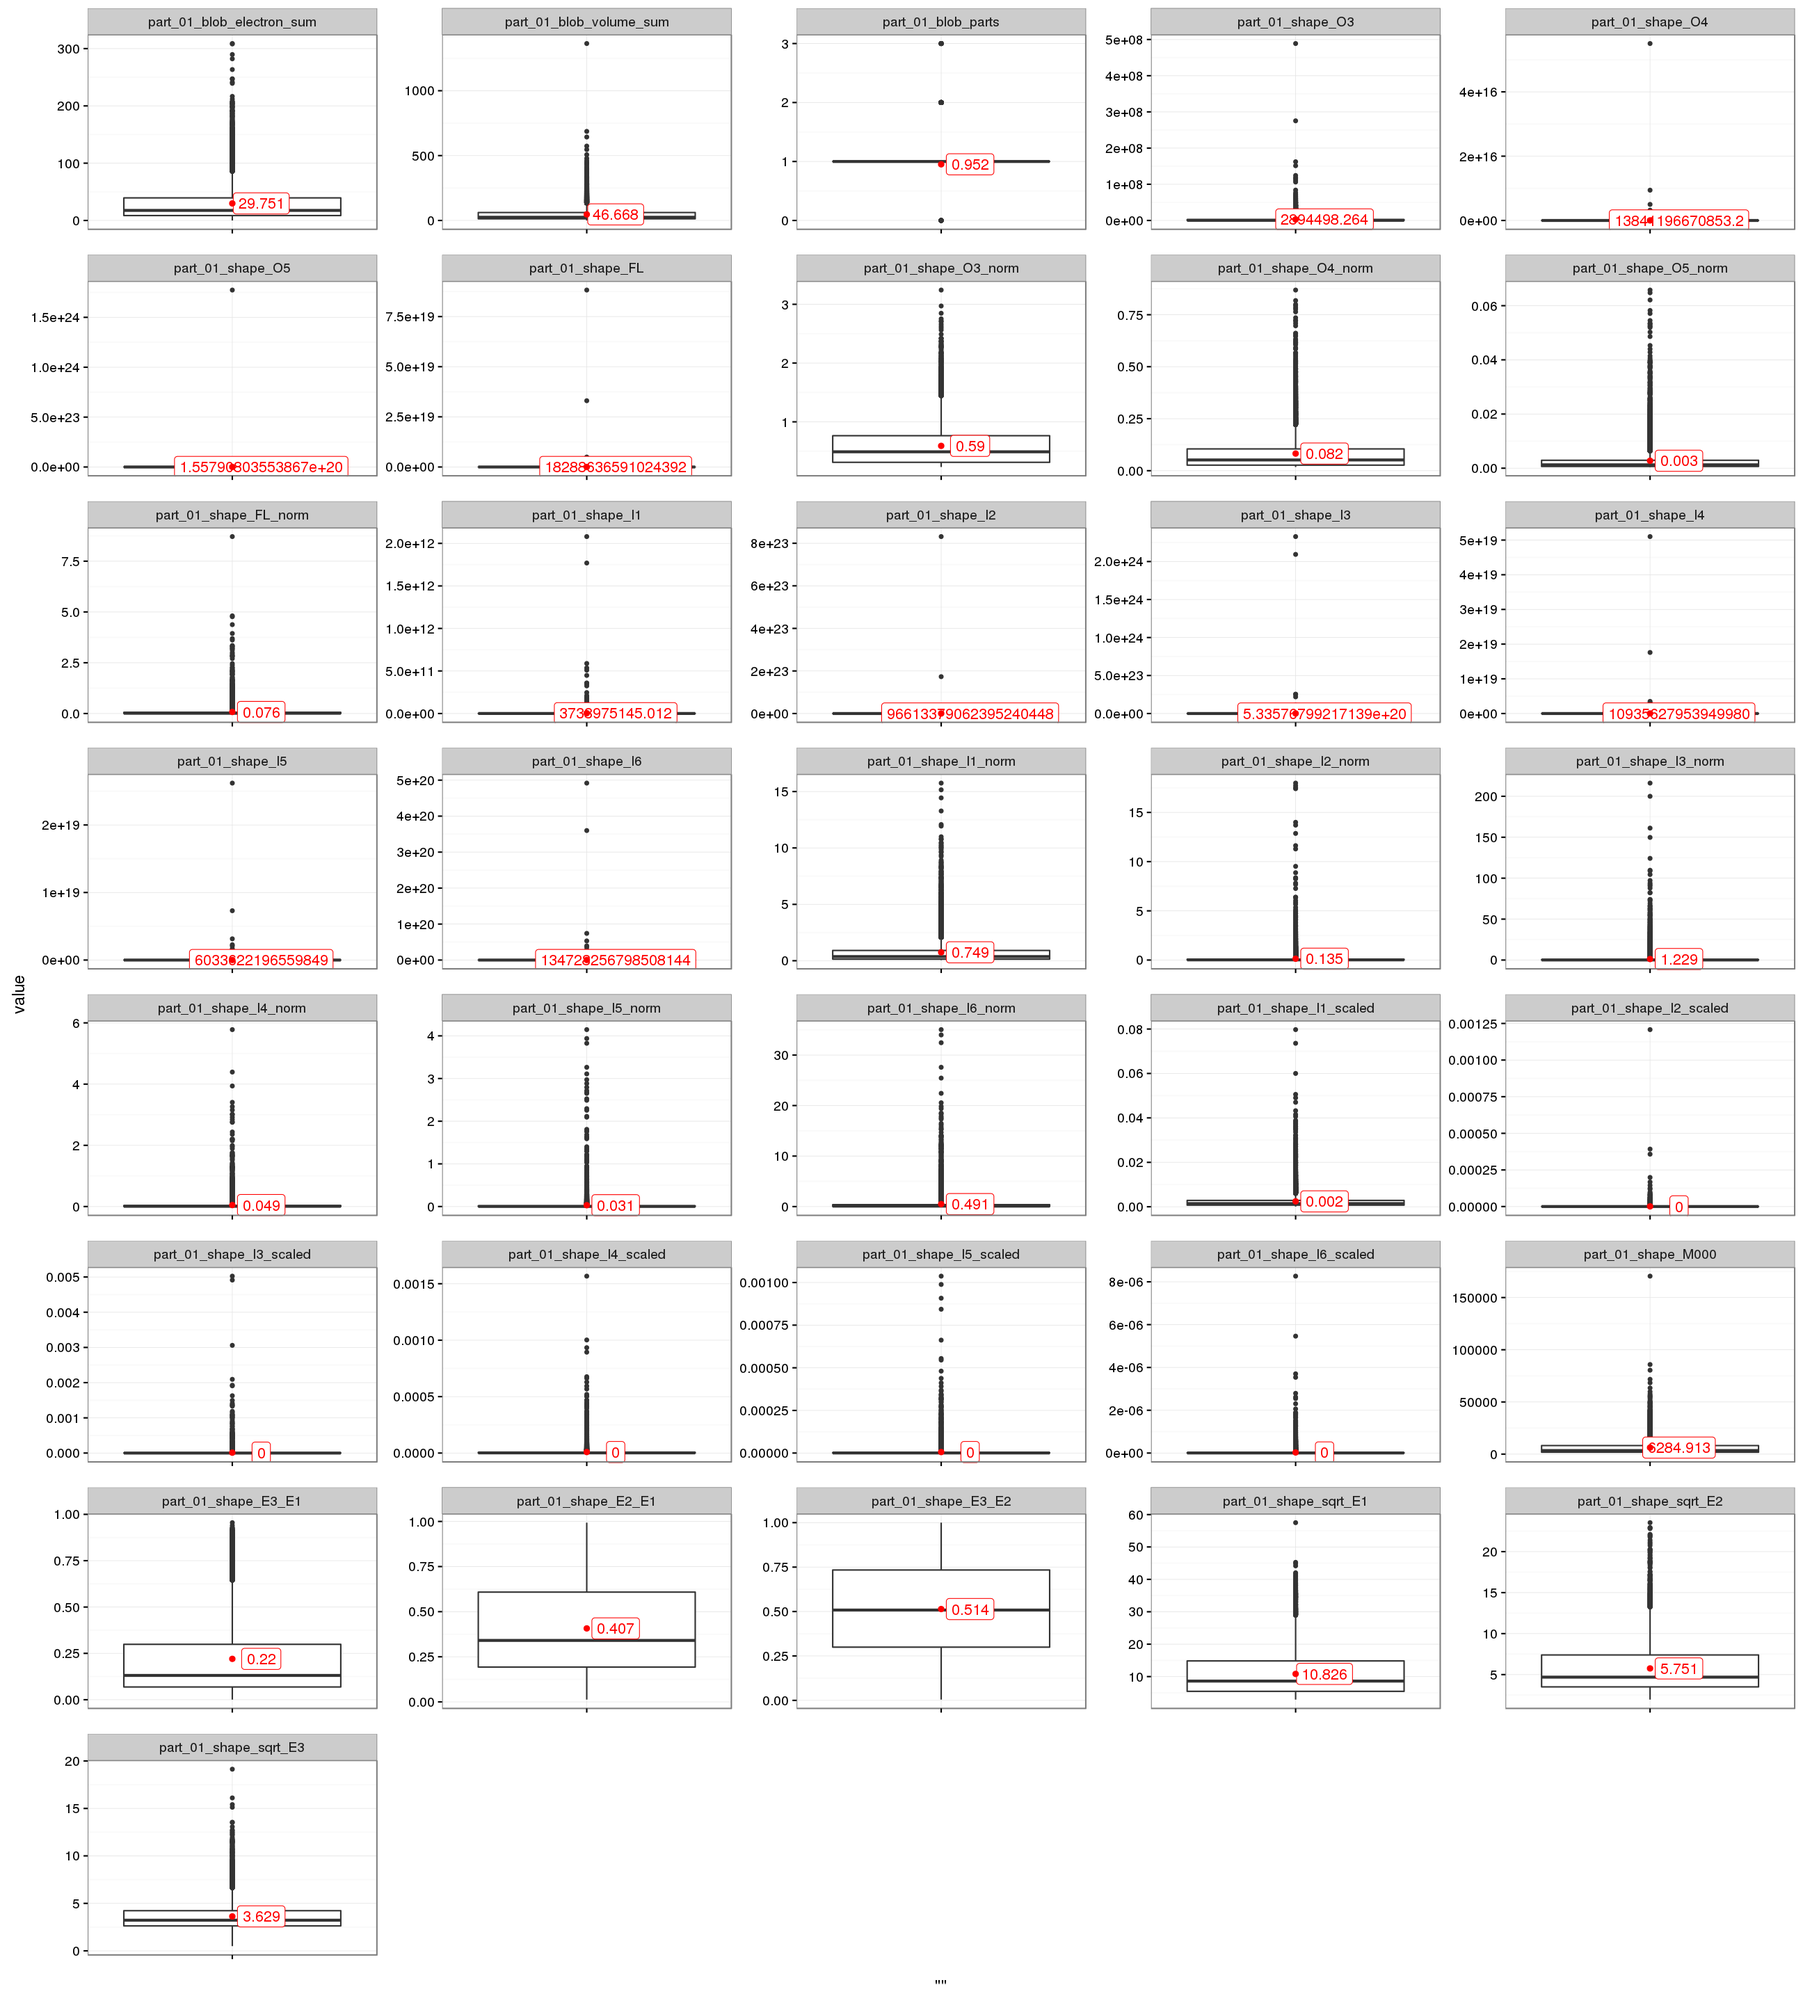
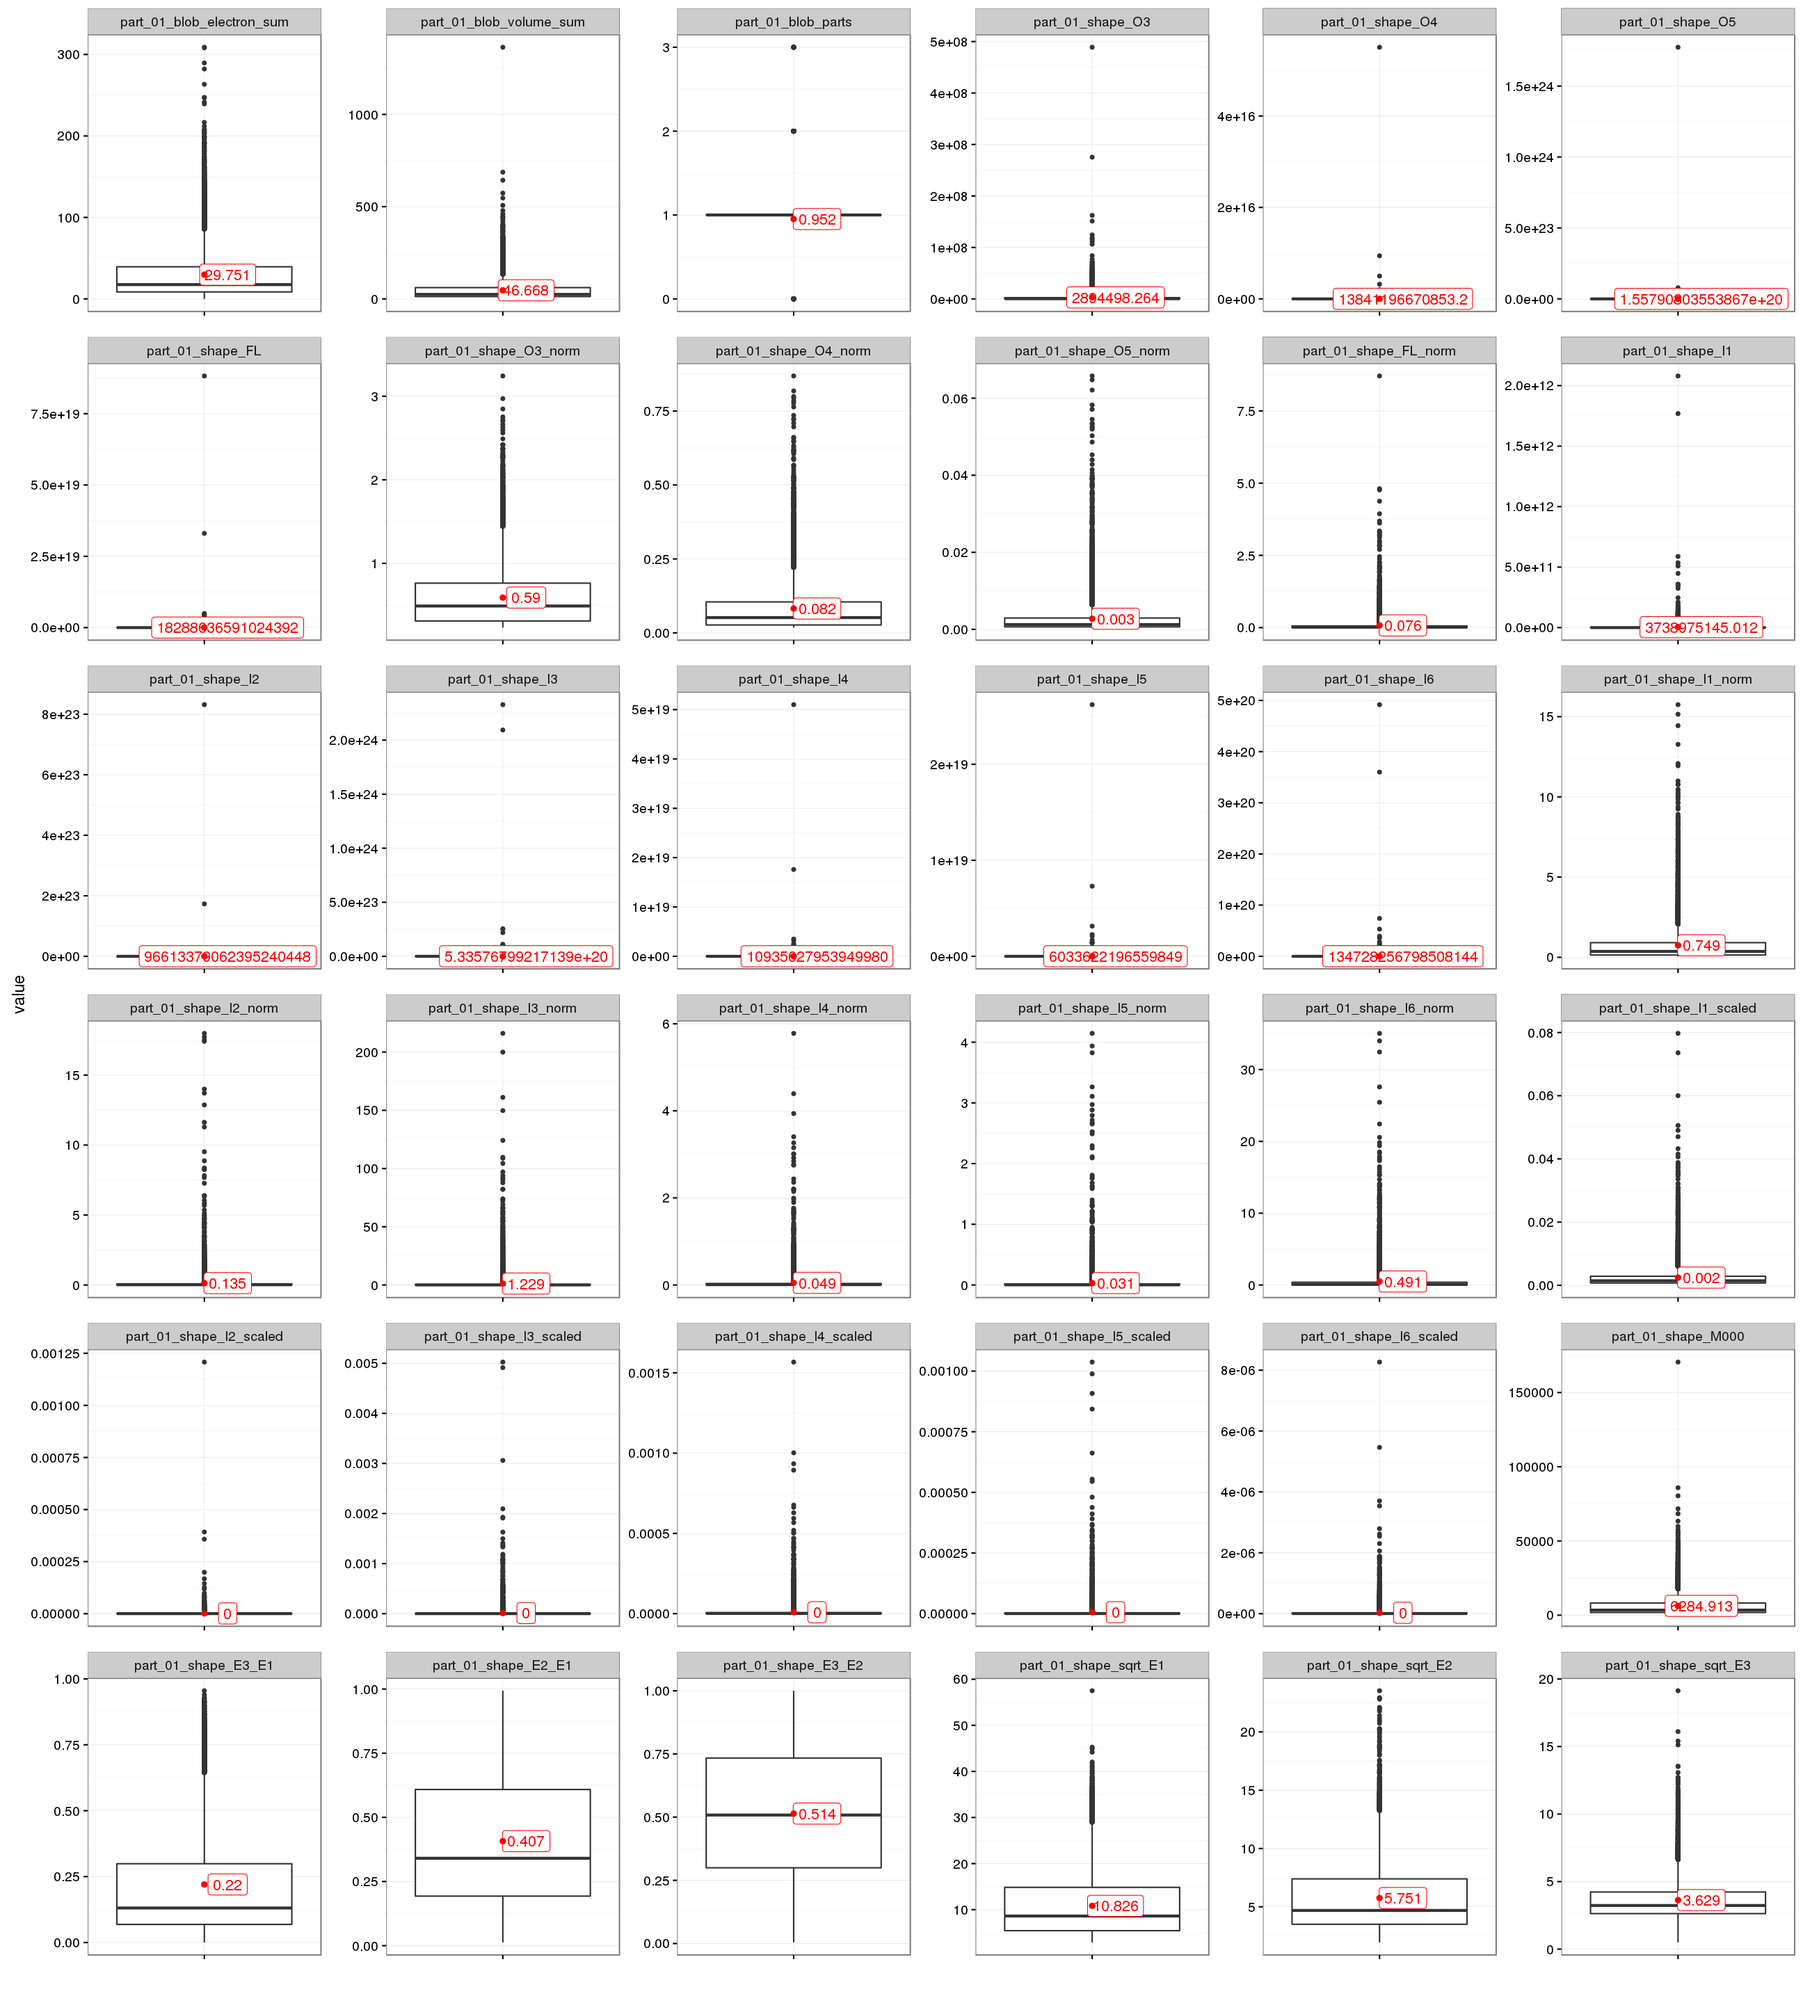
Małe poprawki

diff --git a/raport.md b/raport.md
@@ -110,7 +110,7 @@ kable(top_classes)
 ggplot(top_classes, aes(x=res_name, y=count)) + geom_bar(stat="identity") + scale_x_discrete(limits = top_classes$res_name) + ggtitle("Najczęściej występujące klasy") +theme_bw()
 ```
 
-![](raport_files/figure-html/unnamed-chunk-5-1.png)\
+![](raport_files/figure-html/unnamed-chunk-5-1.png)
 
 
 ## Wykresy rozkładów liczby atomów i elektronów
@@ -120,13 +120,13 @@ ggplot(top_classes, aes(x=res_name, y=count)) + geom_bar(stat="identity") + scal
 ggplot(r, aes(local_res_atom_non_h_count)) + geom_histogram() + ggtitle("Histogram liczby atomów")+theme_bw()
 ```
 
-![](raport_files/figure-html/unnamed-chunk-6-1.png)\
+![](raport_files/figure-html/unnamed-chunk-6-1.png)
 
 ```r
 ggplot(r, aes(local_res_atom_non_h_electron_sum)) + geom_histogram() + ggtitle("Histogram liczby elektronów")+theme_bw()
 ```
 
-![](raport_files/figure-html/unnamed-chunk-6-2.png)\
+![](raport_files/figure-html/unnamed-chunk-6-2.png)
 
 
 ## Próba odtworzenia wykresu 
@@ -140,7 +140,7 @@ plot <- ggplot(r,aes(x=local_res_atom_non_h_electron_sum,y=local_res_atom_non_h_
 ggExtra::ggMarginal(plot, type="histogram", xparams=list(binwidth=5,fill="red"),yparams=list(binwidth=1,fill="red"))
 ```
 
-![](raport_files/figure-html/unnamed-chunk-7-1.png)\
+![](raport_files/figure-html/unnamed-chunk-7-1.png)
 
 ```r
 variances <- r %>% mutate(atom_variance = abs(local_res_atom_non_h_count - dict_atom_non_h_count),
@@ -206,10 +206,10 @@ library(ggplot2) # ponowne zaladowanie bilioteki by uwzglednila fig.width i fig.
 part01 <- r %>% select (part_01_blob_electron_sum:part_01_shape_sqrt_E3)
 melted <- melt(part01)
 means <- aggregate(value ~  variable, melted, mean)
-ggplot(melted,aes(x="",y=value,))+geom_boxplot(outlier.size=1)  + geom_label(data = means, aes(label = round(value,3), x=1,y = value),colour="red",nudge_x=0.1) + stat_summary(fun.y=mean, colour="red", geom="point")+ facet_wrap(~variable, scales="free", ncol=5)+theme_bw()
+ggplot(melted,aes(x="",y=value,))+geom_boxplot(outlier.size=1)  + geom_label(data = means, aes(label = round(value,3), x=1,y = value),colour="red",nudge_x=0.1) + stat_summary(fun.y=mean, colour="red", geom="point")+ facet_wrap(~variable, scales="free", ncol=6)+theme_bw()+xlab("")
 ```
 
-![](raport_files/figure-html/unnamed-chunk-11-1.png)\
+![](raport_files/figure-html/unnamed-chunk-11-1.png)
 Wartości średnie zostały zaznaczone na czerwono.
 
 TODO: Sekcję sprawdzającą czy na podstawie wartości innych kolumn można przewidzieć liczbę elektronów i atomów oraz z jaką dokładnością można dokonać takiej predykcji; trafność regresji powinna zostać oszacowana na podstawie miar R^2 i RMSE;
